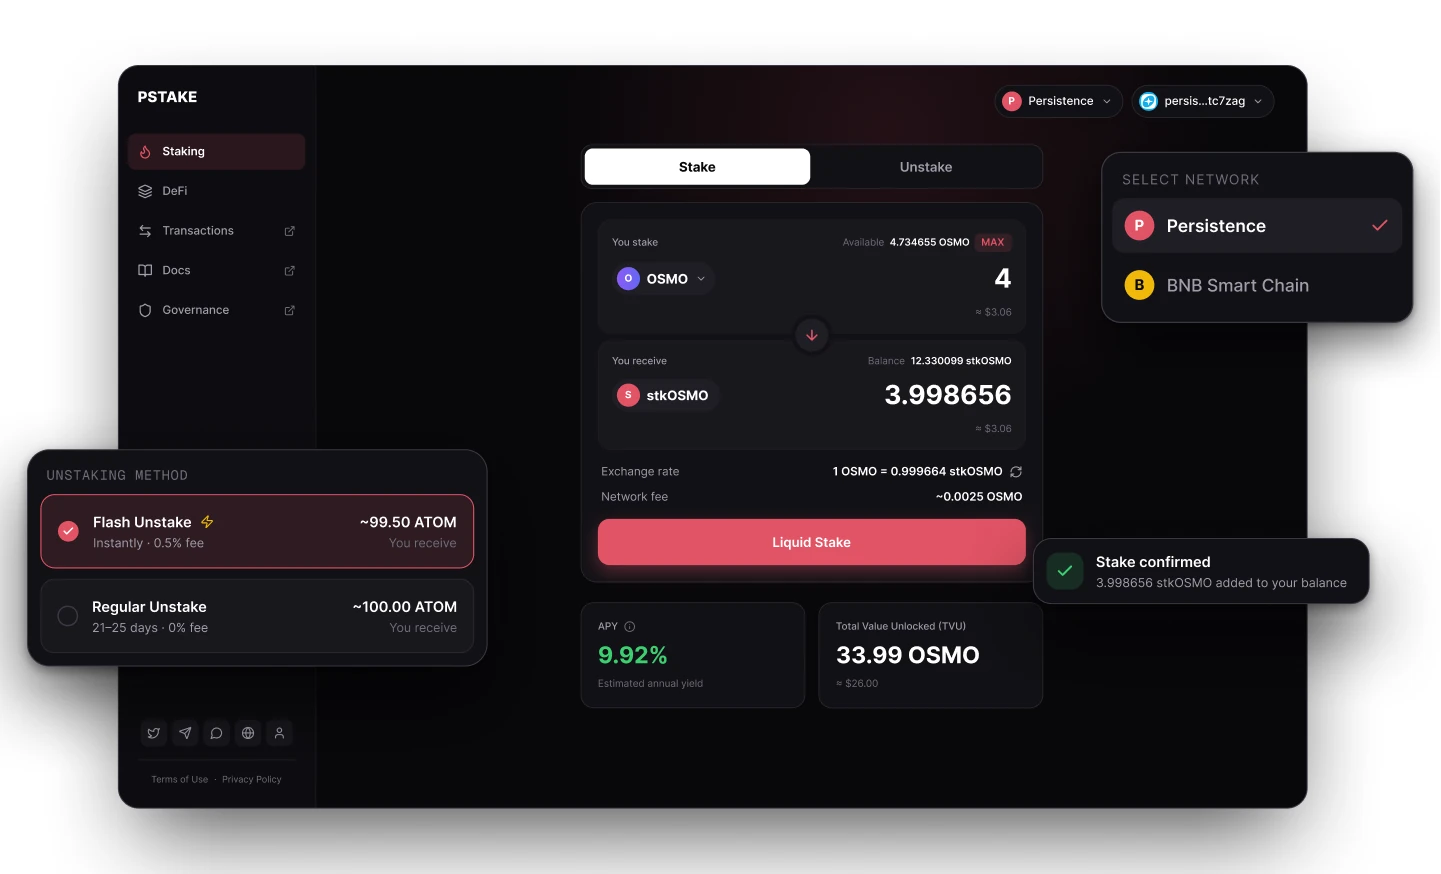
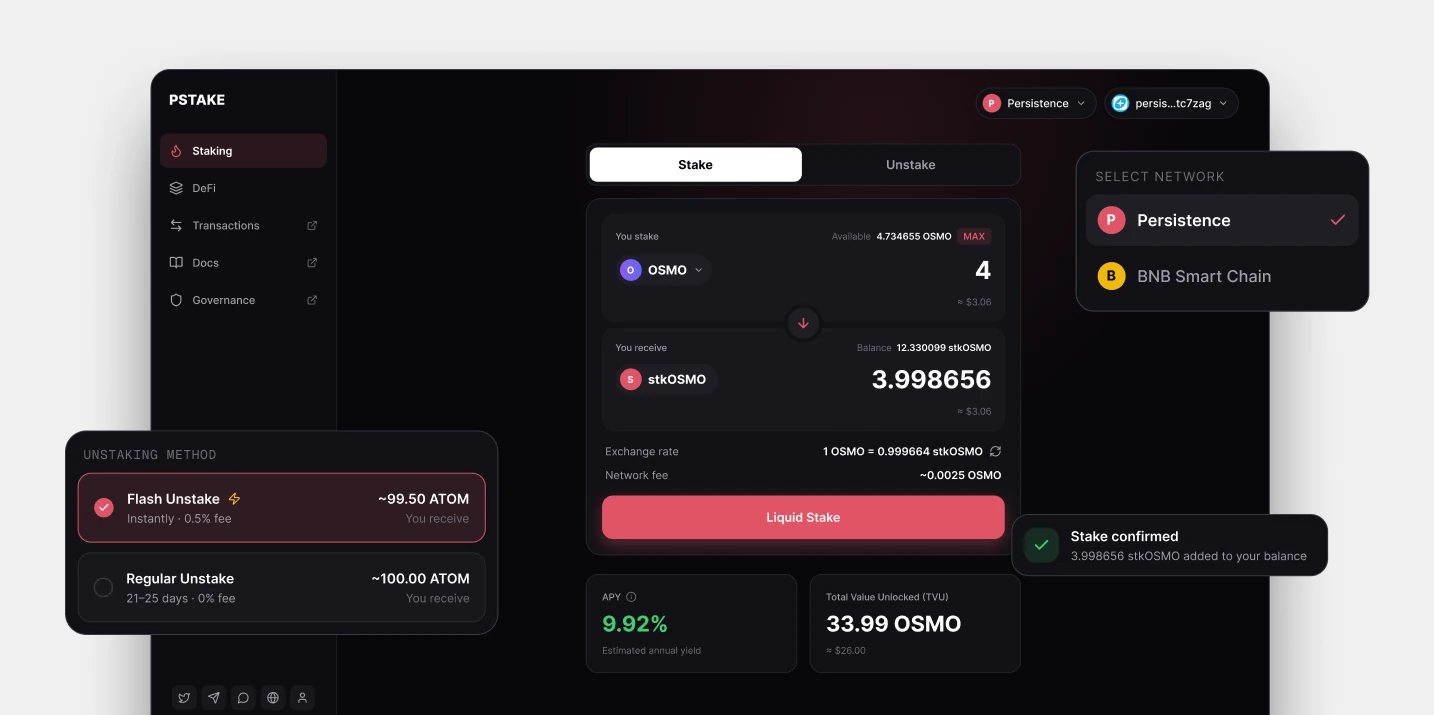
Home: pSTAKE thumbnail v2
Claude-Session: https://claude.ai/code/session_01XsxMJzHnu4bQwP42zg3JzL

Changed region(s): [[0.0, 0.0615, 1.0, 1.0], [0.3989, 0.1538, 0.583, 0.3385], [0.2455, 0.8, 0.3375, 0.8615]]

diff --git a/index.html b/index.html
@@ -152,7 +152,7 @@
       border: 1px solid var(--line); border-radius: var(--r-md); background: var(--bg-3); text-align: left;
       transition: border-color .15s var(--ease-out), box-shadow .25s var(--ease-out); }
     .slot img { width: 100%; height: 100%; object-fit: cover; object-position: top center; display: block; transition: transform .5s var(--ease-out); }
-    .slot img.is-center { object-fit: contain; object-position: center; background: #fff; }
+    .slot img.is-center { object-position: center; }
     .slot:hover { border-color: var(--line-strong); box-shadow: var(--shadow-md); }
     .slot:hover img { transform: scale(1.015); }
     .slot-tag { position: absolute; right: var(--s-md); bottom: var(--s-md); font-family: var(--font-mono); font-size: 11px; line-height: 16.5px; letter-spacing: .04em;
@@ -230,7 +230,7 @@
                   <h3>pSTAKE Finance</h3>
                   <p class="desc">Web3 staking platform</p>
                   <a class="slot" href="work.html#pstake" aria-label="Read the case study: pSTAKE Finance">
-                    <img class="is-center" alt="pSTAKE stake screen with the network selector, Flash and Regular unstaking methods and a stake confirmation" width="1441" height="874" decoding="async" src="img/pstake-home-thumb.webp">
+                    <img class="is-center" alt="pSTAKE stake screen with the network selector, Flash and Regular unstaking methods and a stake confirmation" width="1434" height="715" decoding="async" src="img/pstake-home-thumb.webp?v=2">
                     <span class="slot-tag" aria-hidden="true">Read case study</span>
                   </a>
                 </article>
